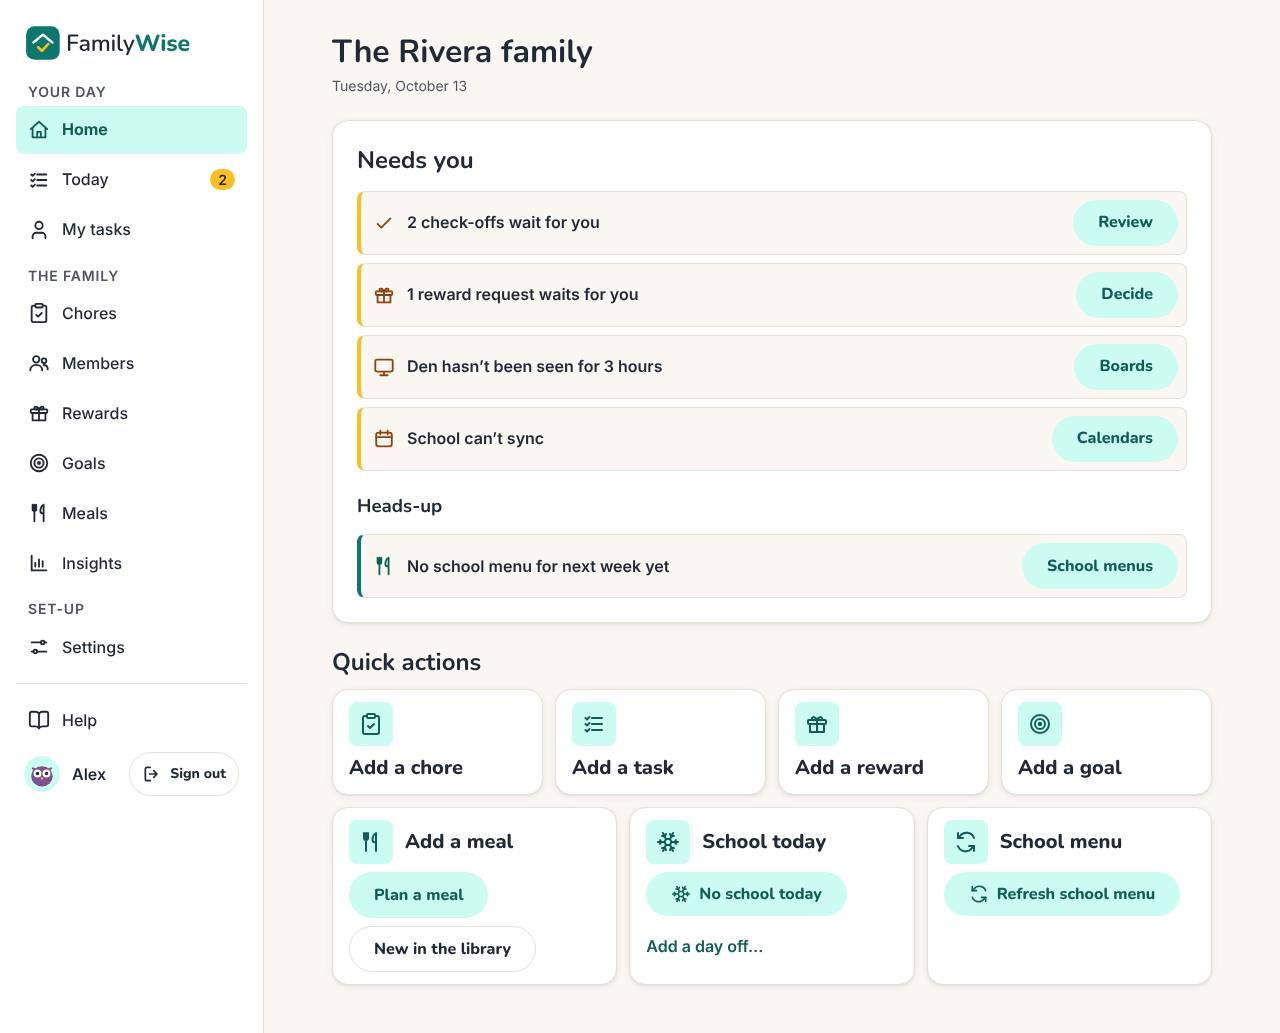
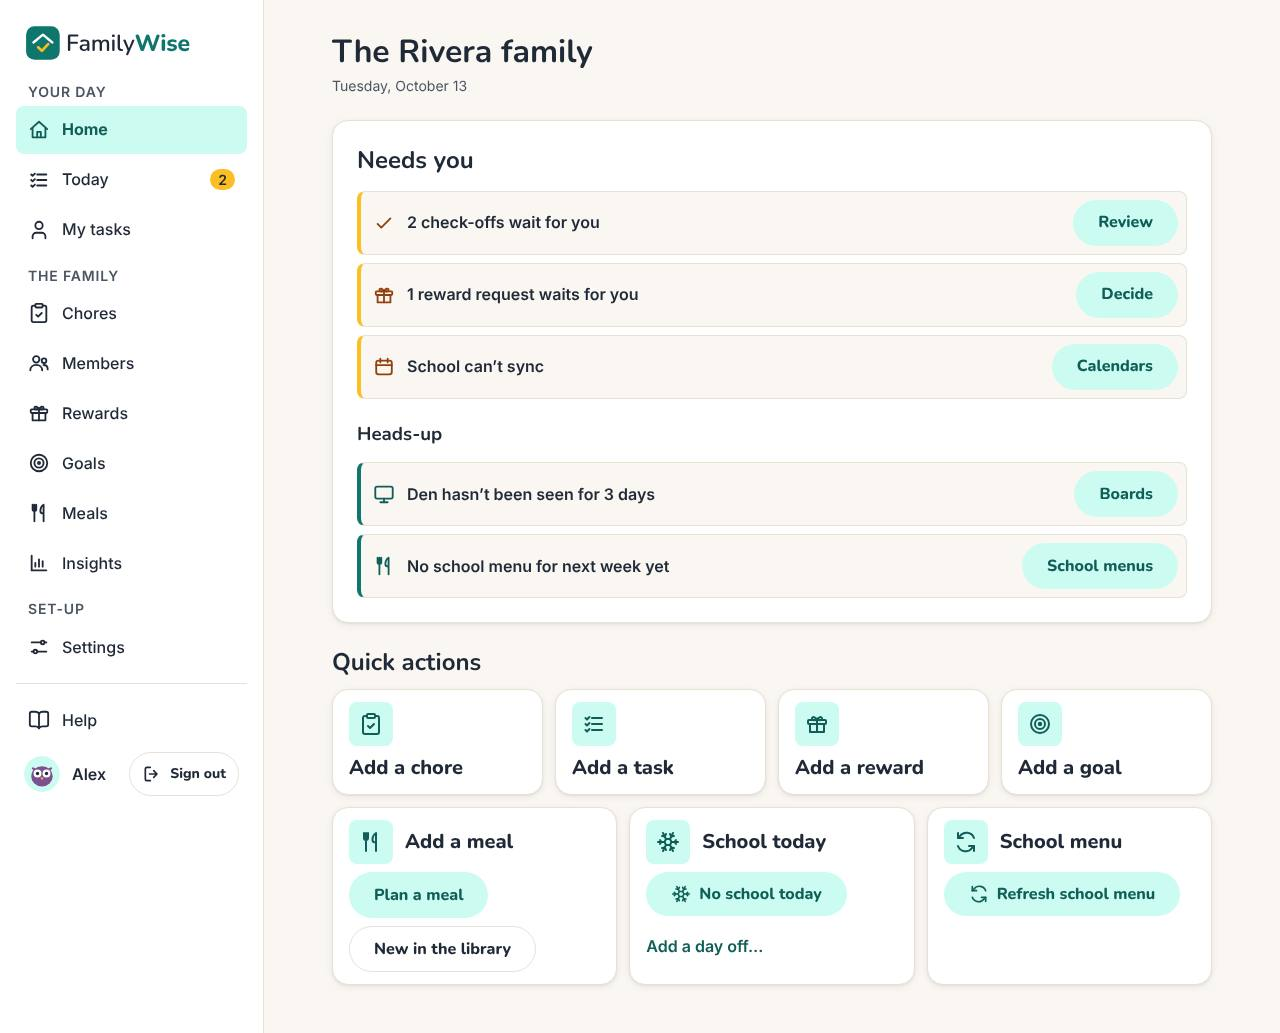
Home: board "not seen" moves from Needs you to a Heads-up after a day (#68)

diff --git a/apps/web/lib/home-alerts.ts b/apps/web/lib/home-alerts.ts
@@ -36,8 +36,11 @@ export interface AlertFacts {
   invites: { email: string; expiresAt: string }[];
 }
 
-/** A board is missed once it hasn't reported in for this long (it does every 5 minutes). */
-export const BOARD_QUIET_MINUTES = 15;
+/**
+ * A board is missed once it hasn't reported in for this long (it does every 5 minutes while it is
+ * awake). A day, not minutes: an asleep or switched-off tablet is normal, and a parent can't act on it.
+ */
+export const BOARD_QUIET_MINUTES = 24 * 60;
 const SCHOOL_ENDS_SOON_DAYS = 14;
 const INVITE_SOON_HOURS = 48;
 
@@ -79,20 +82,6 @@ export function homeAlerts(f: AlertFacts): HomeAlert[] {
       cta: 'Decide',
     });
   }
-  for (const b of f.boards) {
-    if (b.revoked) continue;
-    const quiet = b.lastSeenAt ? minutesBetween(b.lastSeenAt, f.now) : Infinity;
-    if (quiet < BOARD_QUIET_MINUTES) continue;
-    act({
-      key: `board:${b.name}`,
-      icon: 'board',
-      text: b.lastSeenAt
-        ? `${b.name} hasn’t been seen for ${howLong(quiet)}`
-        : `${b.name} hasn’t been seen since it was paired`,
-      href: '/admin/devices',
-      cta: 'Boards',
-    });
-  }
   const broken = f.calendars.filter((c) => c.status === 'error');
   if (broken.length) {
     act({
@@ -126,6 +115,24 @@ export function homeAlerts(f: AlertFacts): HomeAlert[] {
       text: `${plural(f.jobsNeedingLook, 'background job')} ${f.jobsNeedingLook === 1 ? 'needs' : 'need'} a look`,
       href: '/admin/health',
       cta: 'Health',
+    });
+  }
+
+  // A dark board is usually just switched off or asleep, and nothing here can wake it, so it is a
+  // single heads-up after a long silence, never a "Needs you" row per board.
+  const dark = f.boards.filter(
+    (b) => !b.revoked && b.lastSeenAt && minutesBetween(b.lastSeenAt, f.now) >= BOARD_QUIET_MINUTES,
+  );
+  if (dark.length) {
+    note({
+      key: 'boards',
+      icon: 'board',
+      text:
+        dark.length === 1
+          ? `${dark[0]!.name} hasn’t been seen for ${howLong(minutesBetween(dark[0]!.lastSeenAt!, f.now))}`
+          : `${plural(dark.length, 'board')} haven’t been seen for a day`,
+      href: '/admin/devices',
+      cta: 'Boards',
     });
   }
 

diff --git a/apps/web/lib/home-alerts.test.ts b/apps/web/lib/home-alerts.test.ts
@@ -38,23 +38,33 @@ describe('[NFR-17][US-109] Home alerts', () => {
     });
   });
 
-  it('misses a board once it is quiet for 15 minutes, never a disconnected one', () => {
-    expect(
-      keys({
-        boards: [{ name: 'Kitchen', lastSeenAt: '2026-10-13T13:46:00.000Z', revoked: false }],
-      }),
-    ).toEqual([]);
-    const [b] = homeAlerts({
+  it('gives a heads-up (not a "Needs you") for boards dark for a day, never a disconnected or new one', () => {
+    const board = (name: string, lastSeenAt: string | null, revoked = false) => ({
+      name,
+      lastSeenAt,
+      revoked,
+    });
+    // Asleep for hours, or never reported yet: nothing to say.
+    expect(keys({ boards: [board('Kitchen', '2026-10-13T02:00:00.000Z')] })).toEqual([]);
+    expect(keys({ boards: [board('Den', null)] })).toEqual([]);
+    const [one] = homeAlerts({
+      ...quiet,
+      boards: [board('Kitchen', '2026-10-11T14:00:00.000Z'), board('Old', null, true)],
+    });
+    expect(one).toMatchObject({
+      key: 'boards',
+      level: 'note',
+      text: 'Kitchen hasn’t been seen for 2 days',
+    });
+    // Several boards share one line.
+    const [many] = homeAlerts({
       ...quiet,
       boards: [
-        { name: 'Kitchen', lastSeenAt: '2026-10-13T11:00:00.000Z', revoked: false },
-        { name: 'Old', lastSeenAt: null, revoked: true },
+        board('Kitchen', '2026-10-11T14:00:00.000Z'),
+        board('Den', '2026-10-10T14:00:00.000Z'),
       ],
     });
-    expect(b).toMatchObject({ key: 'board:Kitchen', text: 'Kitchen hasn’t been seen for 3 hours' });
-    expect(keys({ boards: [{ name: 'Den', lastSeenAt: null, revoked: false }] })).toEqual([
-      'board:Den',
-    ]);
+    expect(many).toMatchObject({ key: 'boards', text: '2 boards haven’t been seen for a day' });
   });
 
   it('names a calendar or menu that fails, and counts background jobs', () => {

diff --git a/e2e/ui/home.spec.ts b/e2e/ui/home.spec.ts
@@ -97,7 +97,6 @@ test.describe('what Home says', () => {
     await expect(needs.getByRole('listitem')).toHaveText([
       /2 check-offs wait for you/,
       /1 reward request waits for you/,
-      /Den hasn’t been seen for 3 hours/,
       /School can’t sync/,
     ]);
     await expect(needs.getByRole('link', { name: 'Review' })).toHaveAttribute(
@@ -109,6 +108,7 @@ test.describe('what Home says', () => {
       '/admin/rewards',
     );
     const heads = page.getByRole('list', { name: 'Heads-up' });
+    await expect(heads).toContainText('Den hasn’t been seen for 3 days');
     await expect(heads).toContainText('No school menu for next week yet');
     await expect(heads.getByRole('link', { name: 'School menus' })).toHaveAttribute(
       'href',

diff --git a/apps/web/app/dev/home/page.tsx b/apps/web/app/dev/home/page.tsx
@@ -36,7 +36,7 @@ export default async function DevHomePage({
     requests: quiet ? 0 : 1,
     boards: [
       { name: 'Kitchen', lastSeenAt: ago(2), revoked: false },
-      { name: 'Den', lastSeenAt: quiet ? ago(3) : ago(190), revoked: false },
+      { name: 'Den', lastSeenAt: quiet ? ago(3) : ago(3 * 24 * 60), revoked: false },
     ],
     calendars: [
       { name: 'Family', status: 'ok' },

diff --git a/docs/07-user-guide.md b/docs/07-user-guide.md
@@ -171,10 +171,10 @@ The board shows the family's day at once. From then on it keeps itself signed in
 
 **Home** is the first page you see. It shows what needs you, then the things you do most, a tap away.
 
-![Home on a laptop: Needs you lists 2 check-offs wait for you (Review), 1 reward request waits for you (Decide), Den hasn't been seen for 3 hours (Boards) and School can't sync (Calendars); Heads-up says No school menu for next week yet (School menus). Below, Quick actions: Add a chore, Add a task, Add a reward and Add a goal, then Add a meal (Plan a meal, New in the library), School today (No school today, Add a day off…) and School menu (Refresh school menu).](guide/img/admin-home-laptop.jpg "Home, on a laptop")
+![Home on a laptop: Needs you lists 2 check-offs wait for you (Review), 1 reward request waits for you (Decide), and School can't sync (Calendars); Heads-up says Den hasn't been seen for 3 days (Boards) and No school menu for next week yet (School menus). Below, Quick actions: Add a chore, Add a task, Add a reward and Add a goal, then Add a meal (Plan a meal, New in the library), School today (No school today, Add a day off…) and School menu (Refresh school menu).](guide/img/admin-home-laptop.jpg "Home, on a laptop")
 
-- **Needs you** lists what needs you now, each with a button to where you deal with it: check-offs and reward requests waiting for you, a board that hasn't been seen for 15 minutes (switched off, or off the Wi-Fi), a calendar that can't sync, a school menu that can't be read, and a background job that needs a look.
-- **Heads-up** lists what to know soon: no school menu for next week yet, no school year set up (or this one ending within two weeks), weather that hasn't updated, and an invite about to run out.
+- **Needs you** lists what needs you now, each with a button to where you deal with it: check-offs and reward requests waiting for you, a calendar that can't sync, a school menu that can't be read, and a background job that needs a look.
+- **Heads-up** lists what to know soon: no school menu for next week yet, no school year set up (or this one ending within two weeks), weather that hasn't updated, an invite about to run out, and a board that hasn't been seen for a day (switched off, or off the Wi-Fi; a board asleep overnight doesn't count).
 - An alert stays while its cause lasts and goes once you've dealt with it. There's nothing to dismiss. With nothing to look at, Home says "Nothing needs you right now."
 
 **Quick actions:**
@@ -906,7 +906,7 @@ The admin app is for parents, on a phone or a laptop. On a laptop its menu is do
 | Part | What it shows or does |
 |---|---|
 | The household | Its name and today's date. |
-| **Needs you** | Check-offs and reward requests waiting for you, boards not seen for 15 minutes, calendars that can't sync, school menus that can't be read and background jobs that need a look, each with a button to where you deal with it (**Review**, **Decide**, **Boards**, **Calendars**, **School menus**, **Health**). "Nothing needs you right now." when there's none. |
+| **Needs you** | Check-offs and reward requests waiting for you, calendars that can't sync, school menus that can't be read and background jobs that need a look, each with a button to where you deal with it (**Review**, **Decide**, **Calendars**, **School menus**, **Health**). "Nothing needs you right now." when there's none. |
 | **Heads-up** | No school menu for next week, no school year (or one ending within two weeks), weather that hasn't updated, an invite about to run out. Shown only when there is one. |
 | **Quick actions** | **Add a chore**, **Add a task**, **Add a reward**, **Add a goal**. **Add a meal**: **Plan a meal**, **New in the library**. **School today**: **No school today** (then "No school today: Snow day" and **Undo**), or "No school today: the weekend" or the day off's name; **Add a day off…** opens **Name**, **Kind**, **From**, **To (optional)** and **Add day off**. **School menu**: **Refresh school menu**, or **Set up school menus** when there's no feed. |
 

diff --git a/docs/03-user-stories.md b/docs/03-user-stories.md
@@ -131,7 +131,7 @@ Priority uses MoSCoW. Phases: **P0** foundation · **P1** kid loop and rewards (
 ### US-109 — See what needs me, and act in one tap
 **As a** parent **I want** Home to show what needs me and the things I do most, a tap away **so that** I can deal with the family in a minute on my phone.
 **Priority:** Should · **Phase:** P3 · **Reqs:** NFR-17
-- Given check-offs or reward requests wait, a board hasn't been seen for 15 minutes, a calendar or school menu fails, or a background job needs a look, when I open Home, then **Needs you** lists each with a button to where I deal with it.
+- Given check-offs or reward requests wait, a calendar or school menu fails, or a background job needs a look, when I open Home, then **Needs you** lists each with a button to where I deal with it.
 - Given there is no school menu for next week, no school year (or it ends within two weeks), the weather isn't updating, or an invite is about to run out, when I open Home, then **Heads-up** says so.
 - Given I deal with it, when I come back, then its alert is gone; none can be dismissed while its cause lasts.
 - Given Home, when I tap **Add a chore**, **Add a task**, **Add a reward**, **Add a goal**, or **Plan a meal** or **New in the library**, then the page that adds it opens.
